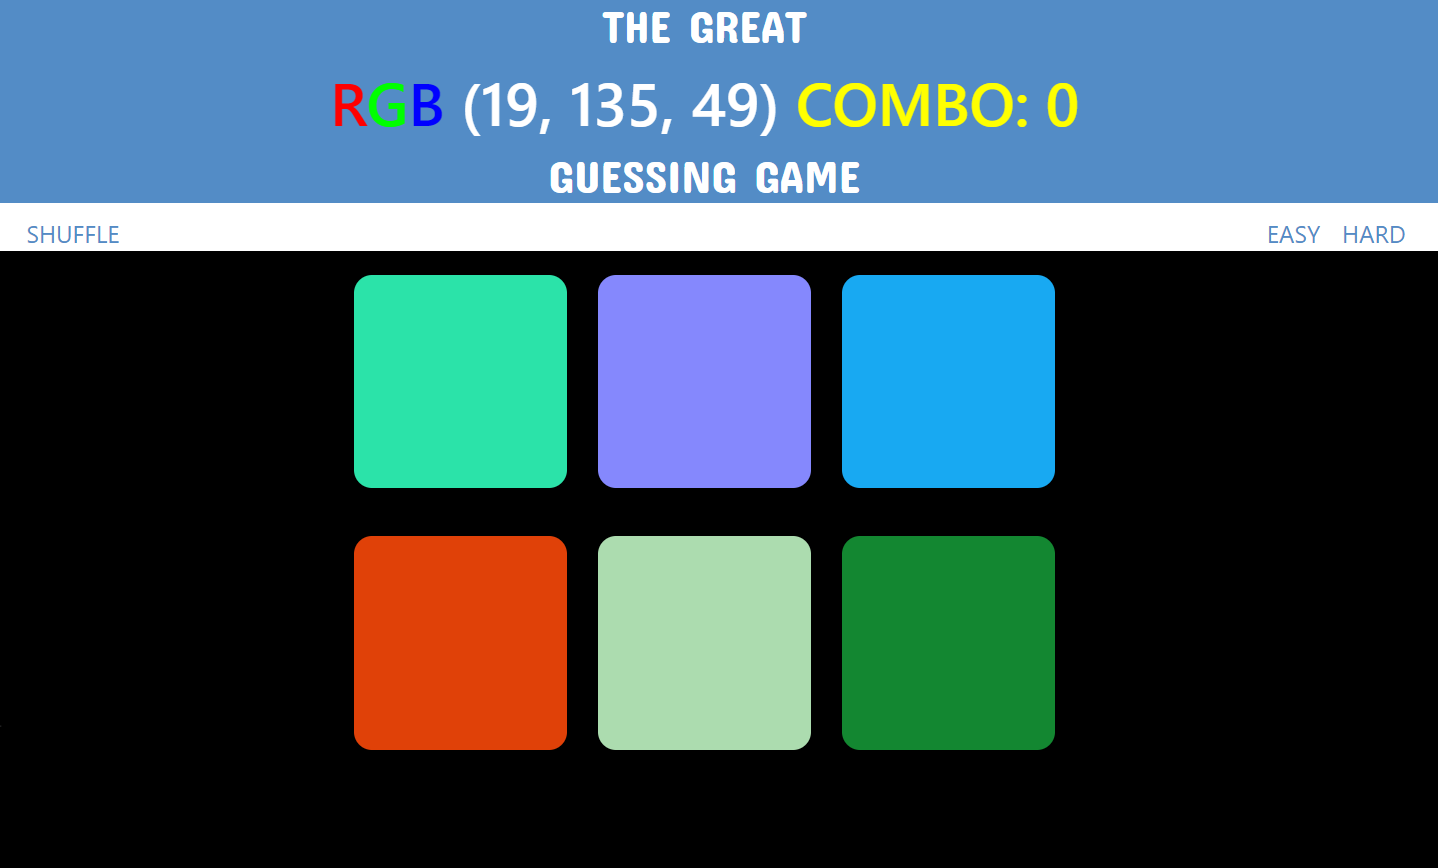
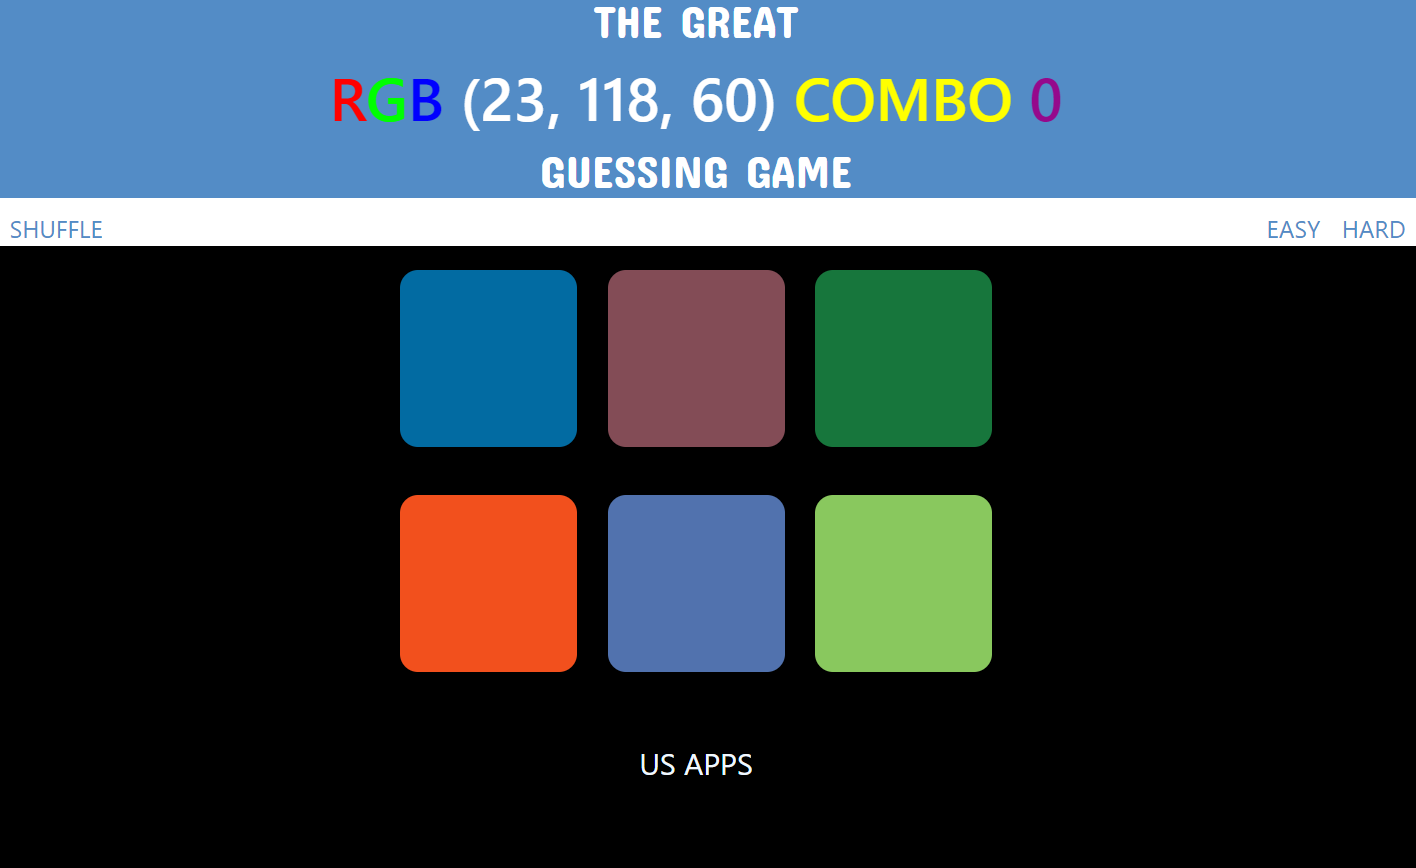
change colorGame png

Changed region(s): [[0.0, 0.0933, 1.0, 0.9021], [0.404, 0.0, 0.5593, 0.0622]]

diff --git a/src/Components/Navbar.js b/src/Components/Navbar.js
@@ -2,14 +2,6 @@ import React, { useState } from "react";
 import Navbar from "react-bootstrap/Navbar";
 import Nav from "react-bootstrap/Nav";
 import Container from "react-bootstrap/Container";
-import logo from "../Assets/logo.png";
-
-
-import { GiInvertedDice4 } from "react-icons/gi";
-import { IoReorderFour } from "react-icons/io5";
-import { GiDiceSixFacesSix } from "react-icons/gi";
-
-
 
 import Button from "react-bootstrap/Button";
 import { Link } from "react-router-dom";
@@ -47,9 +39,7 @@ function NavBar() {
     >
       <Container>
         <Navbar.Brand href="/">
-        <IoReorderFour />
-        <GiDiceSixFacesSix />
-          {/* <img src={logo} className="img-fluid logo" alt="brand" /> */}
+          <spna style={{color:'#0586ae', fontSize:'30px', backgroundColor:'white', borderRadius:'20%'}}>US</spna>
         </Navbar.Brand>
         <Navbar.Toggle
           aria-controls="responsive-navbar-nav"

diff --git a/src/Components/Projects/Projects.js b/src/Components/Projects/Projects.js
@@ -31,8 +31,8 @@ function Projects() {
 							title="COLOR GAME"
 							description="A smart and nice game with a original extra challange"
 							techstack=" HTML | CSS | JS "
-							link="https://color-game-tawny.vercel.app"
-							git="https://github.com/urlsab/Color-game"
+							link="https://color-game-react.vercel.app/"
+							git="https://github.com/urlsab/color-game-react"
 						/>
 					</Col>
 
